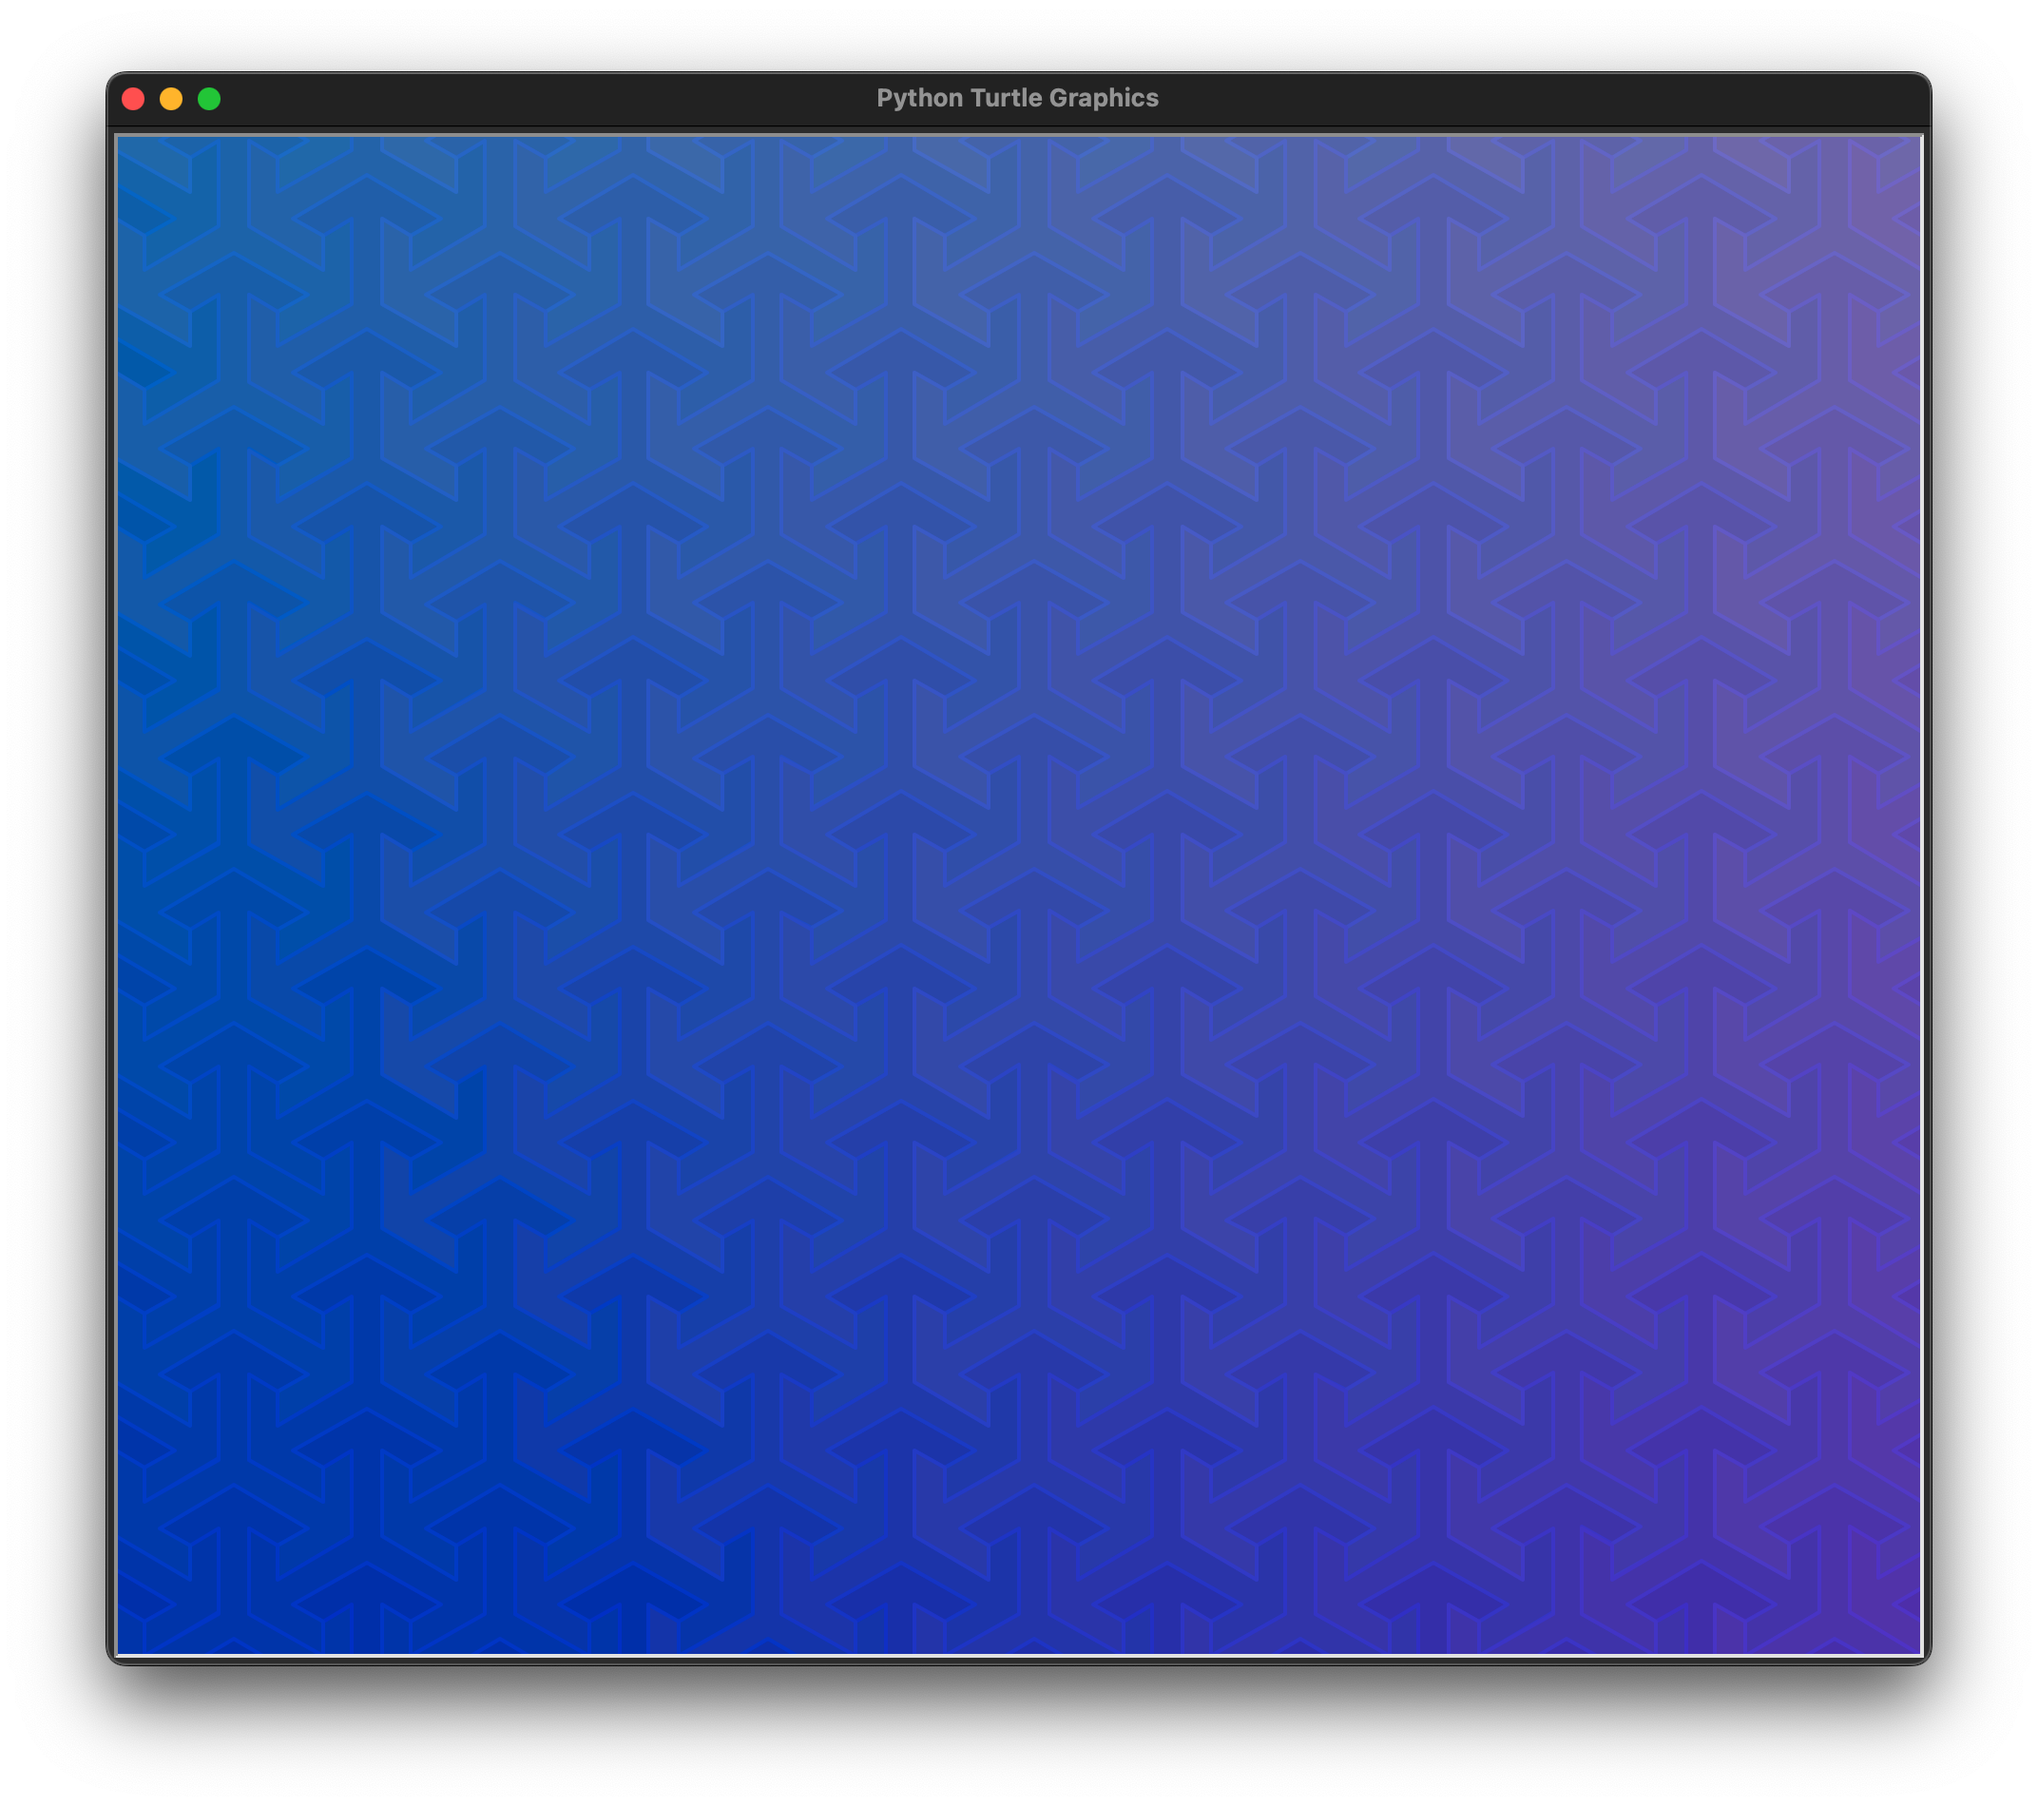
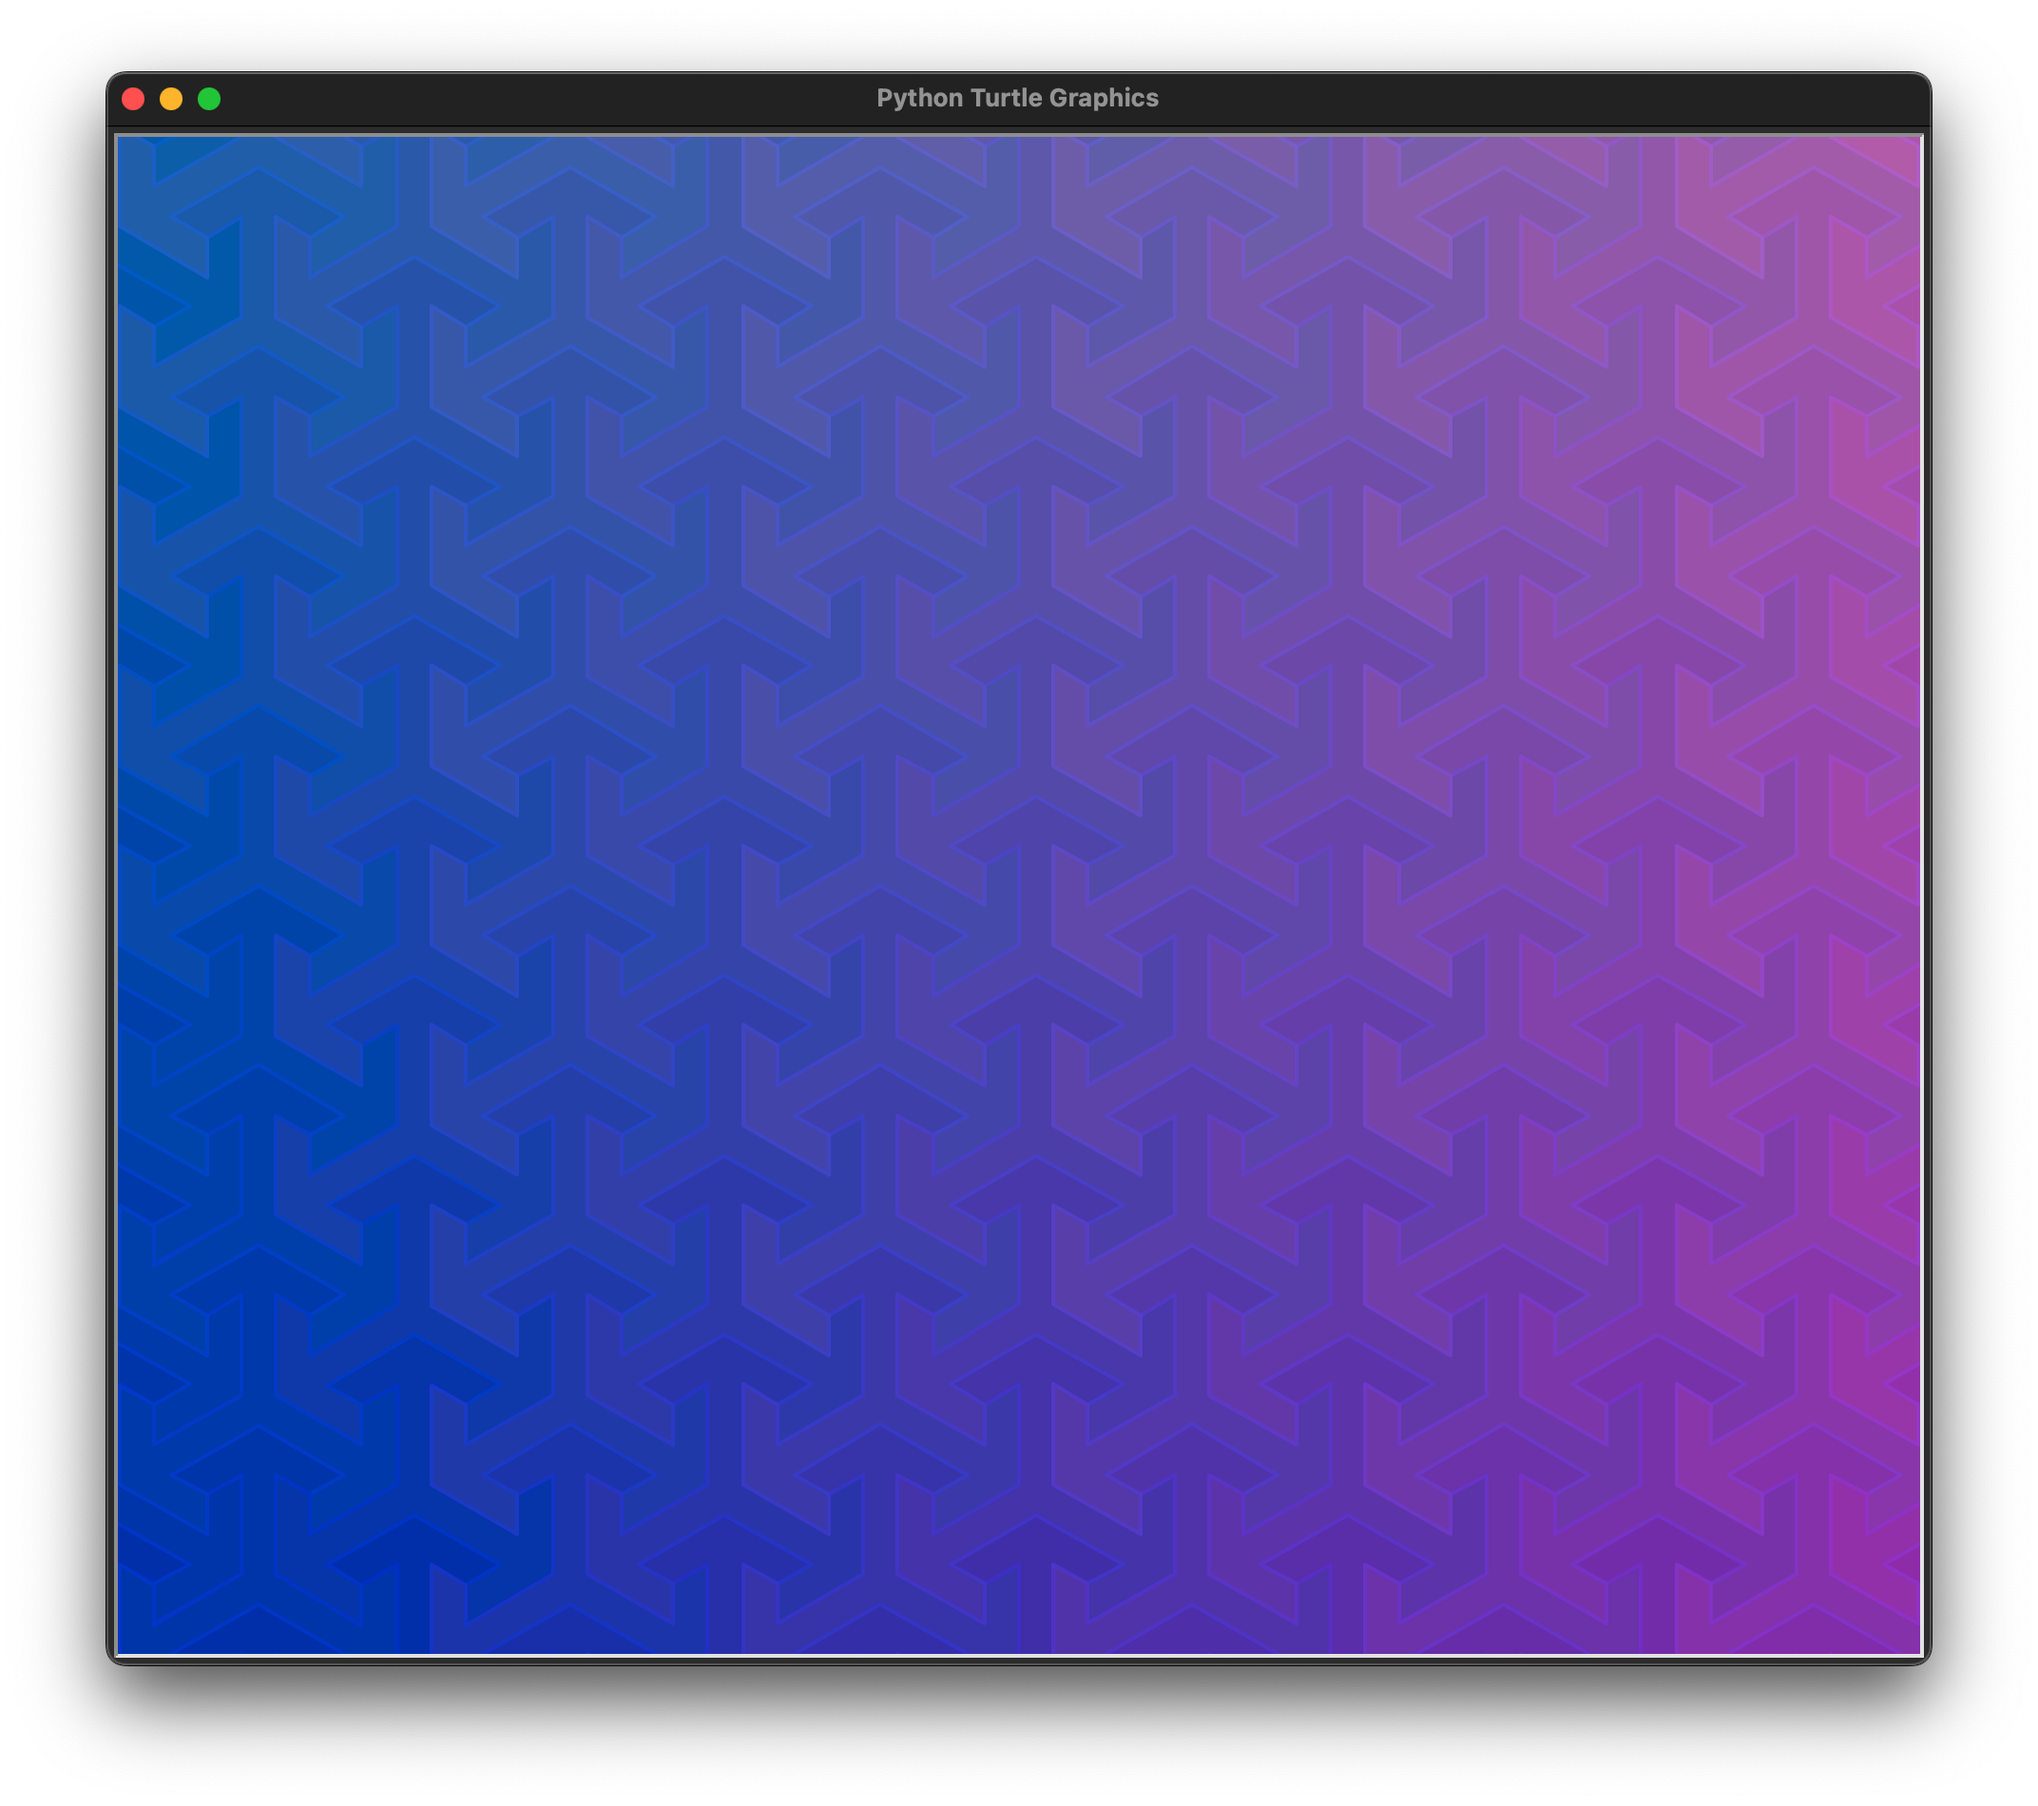
Fix parametric setting of row/col and scale up.

diff --git a/tri-arrow.py b/tri-arrow.py
@@ -2,10 +2,10 @@
 
 from turtle import *
 
-columns = 26
-rows = 24
+columns = 13
+rows = 12
 
-scale = 1.8
+scale = 2.1
 tracer(0,0)
 speed(0)
 hideturtle()
@@ -18,14 +18,14 @@ left(90)
 forward(45 * 11)
 right(90)
 
-for a in range(columns):
-    for b in range(rows):
-        ch = (b + 1)/25
-        fill_color = (ch/3 + ((a/columns)/1.6), ch/2 + 0.2, 0.7)
-        stroke_color = (ch/3 + ((a/columns)/1.6),ch/2 + 0.21, 0.8)
+for col in range(columns):
+    for row in range(rows):
+        ch = (row + 1)/25
+        fill_color = (ch/3 + ((col/columns)/1.6), ch/2 + 0.2, 0.7)
+        stroke_color = (ch/3 + ((col/columns)/1.6),ch/2 + 0.21, 0.8)
         color(stroke_color, fill_color)
         begin_fill()
-        for c in range(3):
+        for arrow in range(3):
             pendown()
             forward(25 * scale)
             left(120)
@@ -47,10 +47,10 @@ for a in range(columns):
         end_fill()
         penup()
         forward(45 * scale)
-    if a % 2 == 0:
-        reverse = columns - 1
+    if col % 2 == 0:
+        reverse = rows + 1
     else:
-        reverse = columns - 2
+        reverse = rows
 
     backward(45 * scale * reverse)
     right(60)
